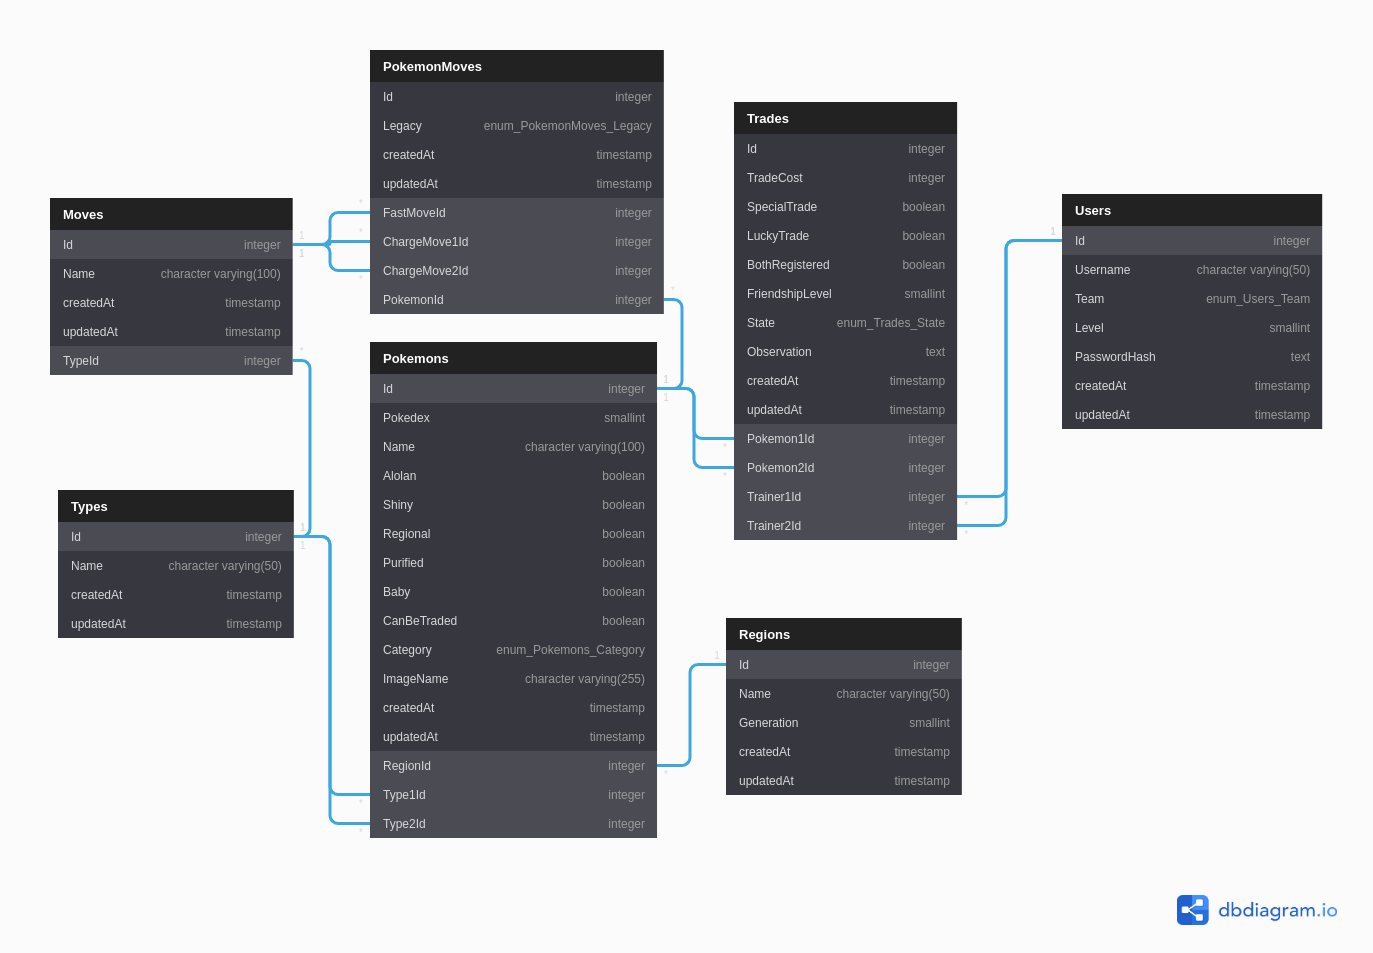
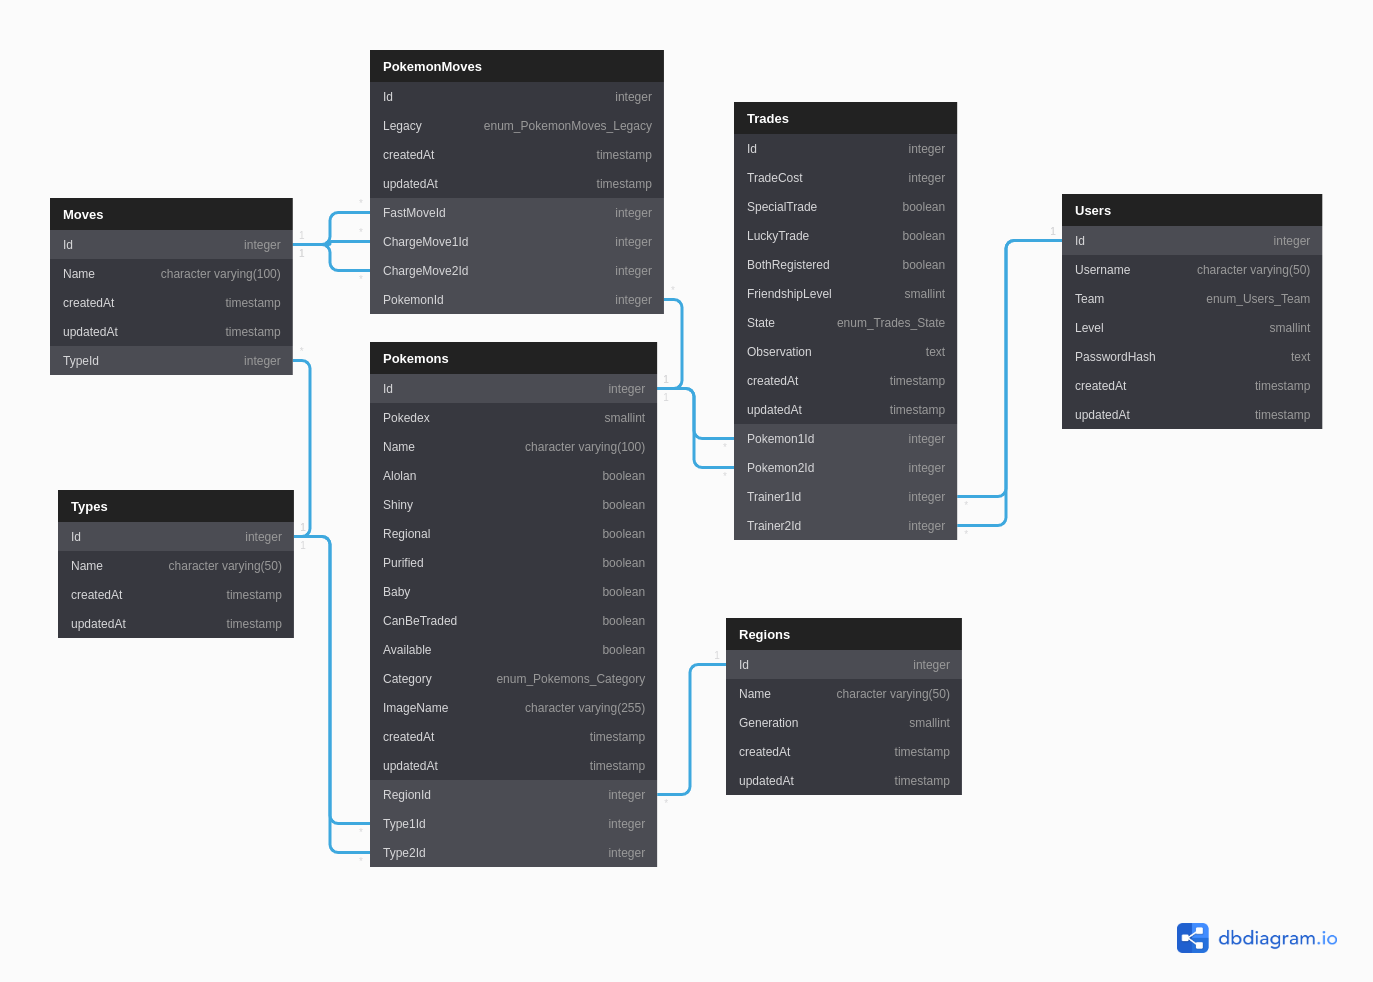
:card_file_box:
Change database models

diff --git a/models/pokemon.js b/models/pokemon.js
@@ -45,6 +45,11 @@ module.exports = (sequelize, Sequelize) => {
       allowNull: false,
       defaultValue: true
     },
+    Available: {
+      type: Sequelize.BOOLEAN,
+      allowNull: false,
+      defaultValue: true
+    },
     Category: {
       type: Sequelize.ENUM("Common", "Legendary", "Mythical"),
       allowNull: false,
